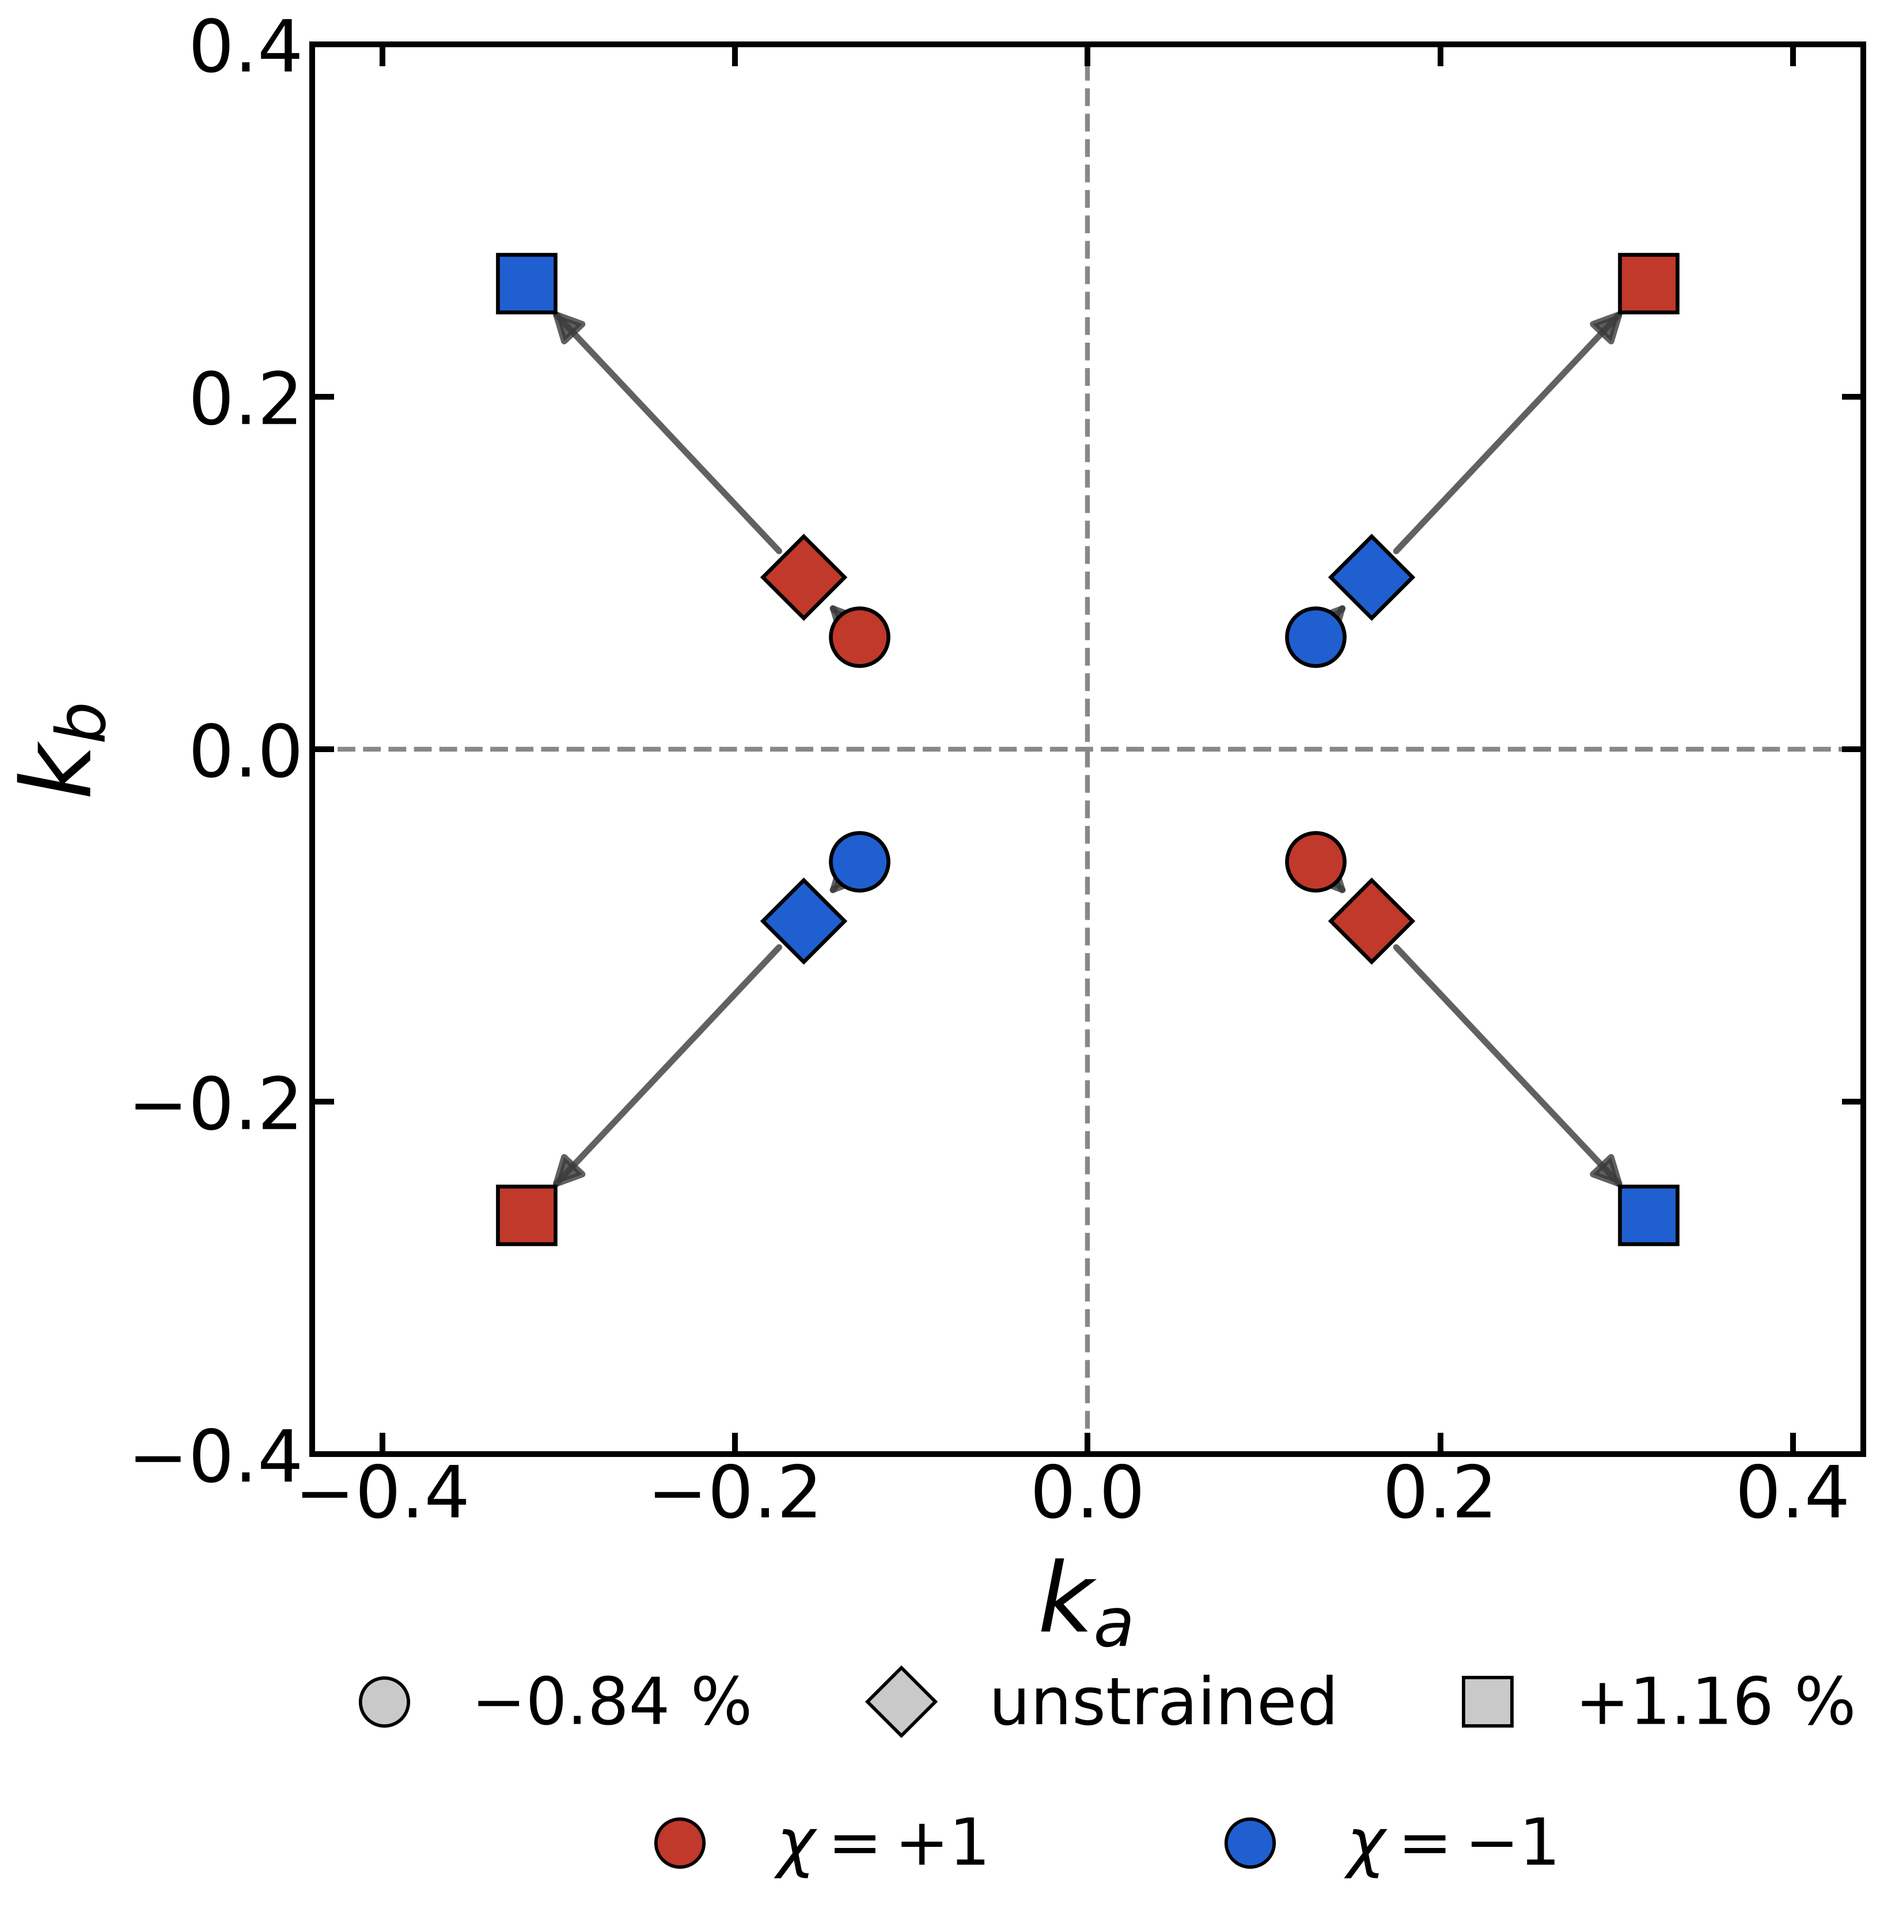
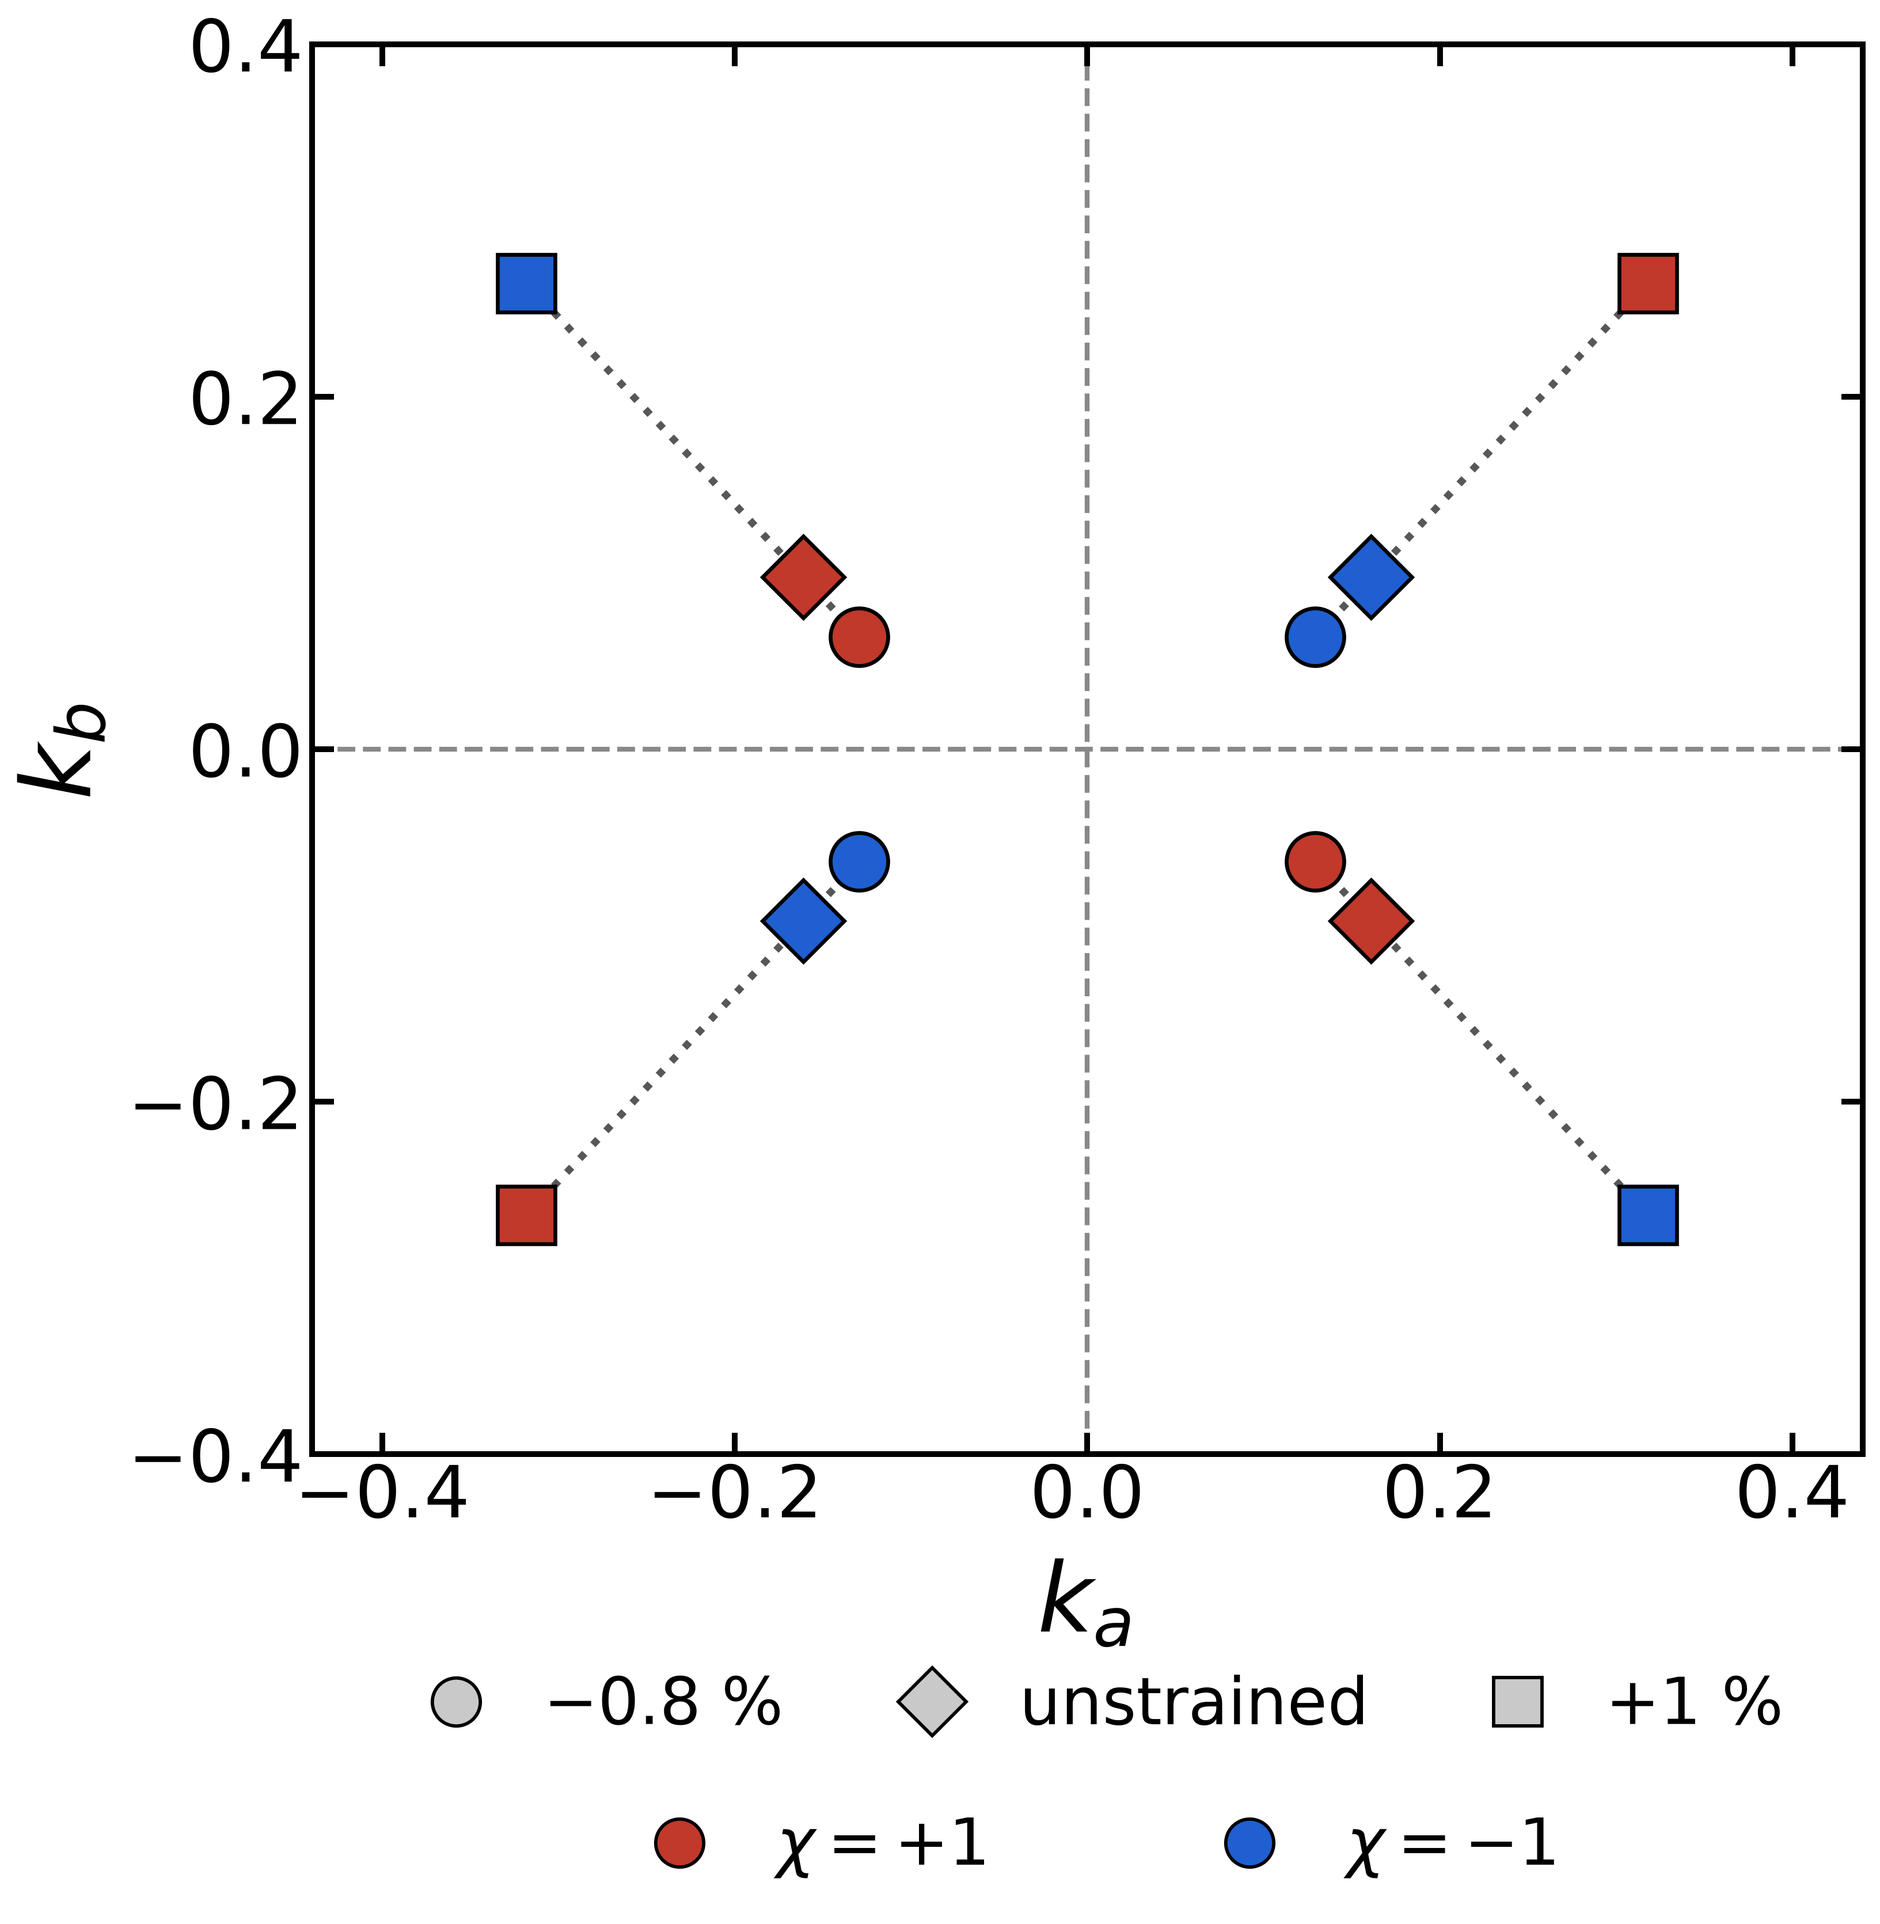
fig8 trend: dotted trend lines, strain labels as -0.8% and +1%
Replaced the arrows with dotted lines and simplified the strain labels.

Also added scripts/figs/quartet_chi.py, which computes the chirality at all
four orbit members directly instead of inferring three of them from the
symmetry argument. For m1_mirror it confirms the pattern the figure draws:

  (+0.12942, +0.06377)  chi = +1      (-0.12942, +0.06377)  chi = -1
  (+0.12942, -0.06377)  chi = -1      (-0.12942, -0.06377)  chi = +1

which is what the group theory requires -- the polar C2 is proper and keeps
chi, so quadrants I and III agree, while the two glides are improper and flip
it for II and IV. The other two structures are still running.

Claude-Session: https://claude.ai/code/session_016KadJUTSV3nBHHj1NDTMTh

diff --git a/scripts/figs/quartet_chi.py b/scripts/figs/quartet_chi.py
@@ -1,0 +1,40 @@
+"""4점 궤도 전부의 chirality 를 직접 계산 — 대칭 논증에 의존하지 않는다.
+
+Pca2_1 의 k 공간 작용: C2(편극축, proper -> χ 보존), m_a 와 m_b (improper -> χ 반전).
+따라서 1·3 사분면이 한 부호, 2·4 가 반대 부호여야 한다. 그걸 실측으로 확인한다.
+"""
+import sys, numpy as np
+sys.path.insert(0, __file__.rsplit('/', 2)[0])
+sys.path.insert(0, __file__.rsplit('/', 1)[0])
+from axes import roles, to_native
+from weyl_scan import get_ph, gap_at
+NOCC=17
+def flux(ph,rec,c,r,nth=48,nph=96):
+    th=np.linspace(0,np.pi,nth); pp=np.linspace(0,2*np.pi,nph,endpoint=False)
+    T,P=np.meshgrid(th,pp,indexing='ij')
+    d=np.stack([np.sin(T)*np.cos(P),np.sin(T)*np.sin(P),np.cos(T)],-1)
+    Q=(c+(d*r)@np.linalg.inv(rec)).reshape(-1,3)
+    ph.run_qpoints([list(q) for q in Q],with_eigenvectors=True)
+    V=ph.qpoints.eigenvectors; nb=V.shape[1]
+    V=V.reshape(nth,nph,nb,nb)[:,:,:,:NOCC]
+    L=lambda A,B:(lambda m:m/np.abs(m))(np.linalg.det(np.einsum('...ji,...jk->...ik',A.conj(),B)))
+    Vp=np.concatenate([V,V[:,:1]],axis=1)
+    F=np.angle(L(Vp[:-1,:-1],Vp[:-1,1:])*L(Vp[:-1,1:],Vp[1:,1:])/(L(Vp[1:,:-1],Vp[1:,1:])*L(Vp[:-1,:-1],Vp[1:,:-1])))
+    return F.sum()/(2*np.pi)
+
+CASES=[('-0.8 %  m1_mirror',      'm1_mirror',      (0.1294182,0.0637717)),
+       ('unstrained pristine',    'pristine_mirror',(0.1610282,0.0975234)),
+       ('+1 %   p1_mirror',       'p1_mirror',      (0.3182116,0.2643381))]
+print('4점 궤도 전부 직접 계산 (표준 k_a,k_b,  k_c=0).  자체 Berry flux 규약.')
+for lab,src,(A,B) in CASES:
+    D = __file__.rsplit('/', 3)[0] + '/source/' + src
+    r2n,pol,mir=roles(D); ph=get_ph(D)
+    rec=np.linalg.inv(ph.primitive.cell).T*2*np.pi
+    print('\n%s'%lab)
+    for sx in (1,-1):
+        for sy in (1,-1):
+            q=np.array(to_native((sx*A, sy*B, 0.0), r2n))
+            g=gap_at(ph,[list(q)],NOCC)[0]
+            chis=[flux(ph,rec,q,r) for r in (0.002,0.005)]
+            print('   (%+.5f, %+.5f)  gap %.2e   chi = %s'
+                  %(sx*A,sy*B,g,' / '.join('%+.2f'%c for c in chis)), flush=True)

diff --git a/scripts/figs/fig8_trend_ppt.py b/scripts/figs/fig8_trend_ppt.py
@@ -16,9 +16,9 @@ import matplotlib.pyplot as plt
 from matplotlib.lines import Line2D
 
 # (라벨, (k_a, k_b), 1사분면 χ, 마커)
-PTS = [('$-0.84$ %',  (0.1294182, 0.0637717), -1, 'o'),
+PTS = [('$-0.8$ %',   (0.1294182, 0.0637717), -1, 'o'),
        ('unstrained', (0.1610282, 0.0975234), -1, 'D'),
-       ('$+1.16$ %',  (0.3182116, 0.2643381), +1, 's')]
+       ('$+1$ %',     (0.3182116, 0.2643381), +1, 's')]
 POS, NEG, GREY = '#c0392b', '#1f5fd0', '#888888'
 
 plt.rcParams.update({
@@ -39,10 +39,8 @@ ax.axvline(0, color=GREY, lw=2.0, ls='--', zorder=1)
 for sx in (1, -1):
     for sy in (1, -1):
         p = [(sx * a, sy * b) for _, (a, b), _, _ in PTS]
-        for q, r in zip(p[:-1], p[1:]):
-            ax.annotate('', xy=r, xytext=q,
-                        arrowprops=dict(arrowstyle='-|>', color='#3a3a3a', lw=2.6,
-                                        shrinkA=15, shrinkB=15, alpha=0.8), zorder=2)
+        px, py = zip(*p)
+        ax.plot(px, py, ls=':', color='#3a3a3a', lw=3.0, alpha=0.85, zorder=2)
         for (lab, (a, b), chi, m) in PTS:
             c = POS if chi * sx * sy > 0 else NEG
             ax.plot(sx * a, sy * b, m, ms=24, color=c, mec='k', mew=1.6, zorder=5)
